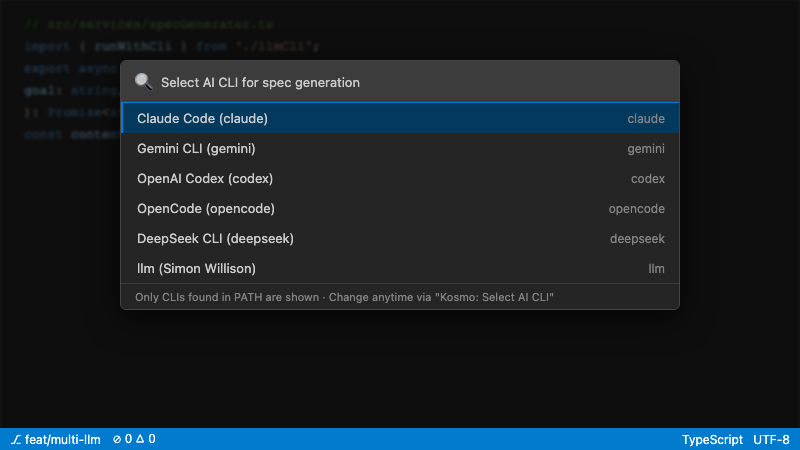
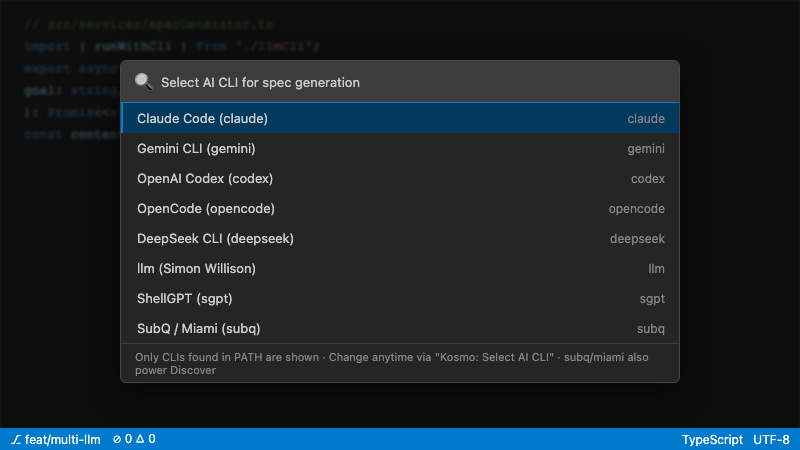
read updated & version bump

Changed region(s): [[0.125, 0.6533, 0.875, 0.84]]

diff --git a/README.md b/README.md
@@ -53,6 +53,8 @@ Inspired by [Kiro](https://kiro.dev/).
 | `deepseek` | DeepSeek CLI |
 | `llm` | [llm by Simon Willison](https://llm.datasette.io) |
 | `sgpt` | [ShellGPT](https://github.com/TheR1D/shell_gpt) |
+| `subq` | [SubQ](https://github.com/SubQuery/subql) |
+| `miami` | Miami CLI |
 
 > **Note:** Task execution always uses `claude` (Claude Code CLI) — it provides the Read/Write/Edit/Bash tools that run your tasks. The CLI picker only affects spec generation.
 
@@ -98,9 +100,19 @@ Click **▶** next to any `[ ]` task in the sidebar or in `tasks.md` via CodeLen
 
 A Claude Code subprocess runs the task in your workspace CWD with the full spec as context. The Output Channel streams every tool call in real time. When done, the checkbox updates to `[x]` automatically.
 
+If a task has `_Requirements: 1.1, 2.3_`, only the referenced subsections of `requirements.md` are injected into the prompt — keeping context tight for large specs.
+
 ### Kill a running task
 
 Click **⏹** next to any `[~]` task. The marker reverts to `[ ]`.
+
+### Discover
+
+**Kosmo: Discover** queries your codebase with a freetext question via `subq` or `miami` CLI (must be in PATH). Output streams to a channel; you can copy it or feed it directly into a new spec.
+
+### Edit spec files
+
+Opening any `.kosmo/specs/**/*.md` file uses Kosmo's custom editor — an editable textarea with line numbers, a step-navigation toolbar (Requirements › Design › Task list), and sync/continue buttons. Use the floating **Open Preview** button for rendered markdown.
 
 ---
 
@@ -112,10 +124,13 @@ Click **⏹** next to any `[~]` task. The marker reverts to `[ ]`.
 - [ ] 1. Task title
   - implementation detail
   - another detail
+  - [model:haiku]
   - _Requirements: 1.1, 2.3_
 ```
 
 States: `[ ]` pending · `[~]` in progress · `[x]` done
+
+**Model tiers** — add `[model:haiku]`, `[model:sonnet]`, or `[model:opus]` to any detail line to control which model runs that task. Default is `sonnet`. Use `haiku` for cheap/fast tasks (linting, formatting) and `opus` for complex reasoning tasks.
 
 ---
 
@@ -141,3 +156,5 @@ For best results, fill in the generated `CLAUDE.md` at your project root. Every 
 | `Kosmo: Kill Task` | Stop running task |
 | `Kosmo: Refresh Tasks` | Manually refresh sidebar |
 | `Kosmo: Select AI CLI` | Change which CLI is used for spec generation |
+| `Kosmo: Discover` | Query codebase via subq/miami; stream results or create new spec |
+| `Kosmo: Delete Spec` | Delete a spec folder (right-click spec in sidebar) |
